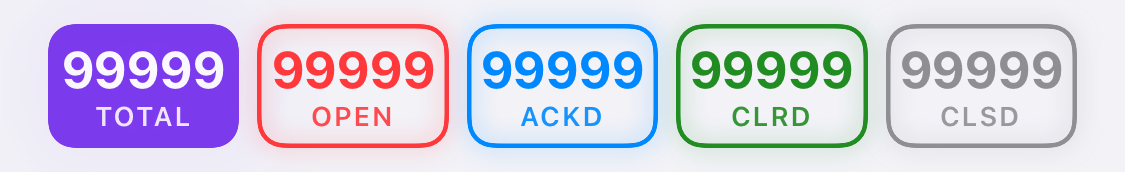
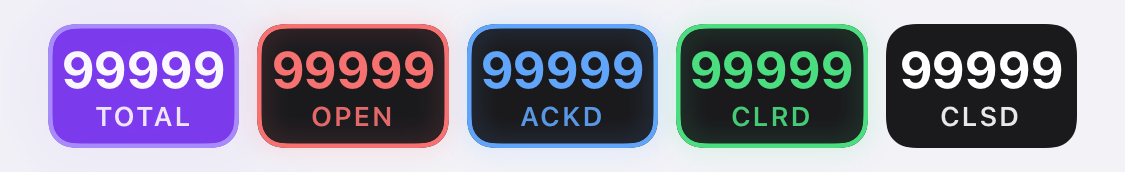
PWA 0.19.6: two colours per pill — a base to fill with, a tint to frame with
Round two of Thomas's mockup.

  TOTAL  base #7C3AED  tint #A78BFA
  OPEN   base #DC2626  tint #F87171
  ACKD   base #2563EB  tint #60A5FA
  CLRD   base #16A34A  tint #4ADE80
  CLSD   base #F2F2F7  tint #FFFFFF

Round one gave each pill ONE colour used for everything, which left an
unselected pill outlined in the same value its selected neighbour was filled
with — the two states separated only by fill, which is exactly what failed on
TOTAL when #1B0F33 went on a near-black page. A brighter frame is the
difference that survives whatever the fill does.

The unselected ground is #1a1a1d, not transparent. Round one let the page
through, so the row read as four outlines floating on nothing; a plate gives
every pill the same footprint whether selected or not, which is what stops the
row jumping as the selection moves.

CLSD is the exception twice. Selected, its text is #111114 rather than white —
its fill is nearly white and white on white is the whole label gone. Unselected
it has NO frame and NO glow: white text on the bare plate. It is the one tab you
opt into, and a #FFFFFF frame would make it the brightest thing in a row nobody
is looking at. The border WIDTH stays and only the colour goes transparent, or
the frameless pill would be 3px narrower than the four beside it and the row
would not line up.

Radii unchanged: 4px at 55% unselected, 14px at 85% selected.

ONE CONTRADICTION IN THE BRIEF, resolved and stated rather than quietly picked.
[…]

diff --git a/pwa/src/features/incidents/__tests__/IncidentListScreen.test.tsx b/pwa/src/features/incidents/__tests__/IncidentListScreen.test.tsx
@@ -127,58 +127,80 @@ describe('IncidentListScreen', () => {
     expect(rowIds().join(' ')).toContain('#27516');
   });
 
-  it('gives the selected pill its own state colour', async () => {
-    // TOTAL is #7C3AED, the same in both states, exactly like the other four.
-    // It replaced #1B0F33 — the app icon's measured dominant colour, and the
-    // wrong value: the icon's dominant colour is its dark BACKGROUND, so the
-    // selected pill was a near-black block on a near-black page and did not
-    // read as selected at all. iOS asserts the identical string.
+  /** The ten hex values, as the mockup states them. iOS holds the identical ten
+   * in `IncidentPill.palette` and asserts them there, so neither platform can
+   * drift on any of them in silence. */
+  const PALETTE = {
+    TOTAL: { base: 'rgb(124, 58, 237)', tint: 'rgb(167, 139, 250)', hex: ['#7C3AED', '#A78BFA'] },
+    OPEN: { base: 'rgb(220, 38, 38)', tint: 'rgb(248, 113, 113)', hex: ['#DC2626', '#F87171'] },
+    ACKD: { base: 'rgb(37, 99, 235)', tint: 'rgb(96, 165, 250)', hex: ['#2563EB', '#60A5FA'] },
+    CLRD: { base: 'rgb(22, 163, 74)', tint: 'rgb(74, 222, 128)', hex: ['#16A34A', '#4ADE80'] },
+    CLSD: { base: 'rgb(242, 242, 247)', tint: 'rgb(255, 255, 255)', hex: ['#F2F2F7', '#FFFFFF'] },
+  } as const;
+  const PILL_NAMES = ['TOTAL', 'OPEN', 'ACKD', 'CLRD', 'CLSD'] as const;
+
+  it('fills the selected pill with its BASE and frames it in its TINT', async () => {
     renderScreen();
-    expect(pill('TOTAL').style.backgroundColor).toBe('rgb(124, 58, 237)');  // #7C3AED
-    expect(pill('TOTAL').style.color).toBe('rgb(255, 255, 255)');           // 5.6:1 on it
-    await userEvent.click(pill('OPEN'));
-    expect(pill('OPEN').style.backgroundColor).toBe('rgb(220, 38, 38)');
-    await userEvent.click(pill('ACKD'));
-    expect(pill('ACKD').style.backgroundColor).toBe('rgb(37, 99, 235)');
-    await userEvent.click(pill('CLRD'));
-    expect(pill('CLRD').style.backgroundColor).toBe('rgb(5, 150, 105)');
-    await userEvent.click(pill('CLSD'));
-    expect(pill('CLSD').style.backgroundColor).toBe('rgb(100, 116, 139)');
-    await userEvent.click(pill('TOTAL'));
-    expect(pill('TOTAL').style.backgroundColor).toBe('rgb(124, 58, 237)');
+    for (const name of PILL_NAMES) {
+      await userEvent.click(pill(name));
+      const el = pill(name);
+      const { base, tint } = PALETTE[name];
+      expect(el.style.backgroundColor).toBe(base);
+      expect(el.style.borderColor).toBe(tint);
+      expect(el.style.borderWidth).toBe('1.5px');
+      // White text on four; CLSD's fill is nearly white, so white on white
+      // would be the whole label gone.
+      expect(el.style.color).toBe(name === 'CLSD' ? 'rgb(17, 17, 20)' : 'rgb(255, 255, 255)');
+      // Selected glow: 14px at 85%, in the BASE.
+      expect(el.style.boxShadow).toBe(`0 0 14px ${PALETTE[name].hex[0]}D9`);
+    }
   });
 
-  it('draws the two glow radii, and TOTAL is #7C3AED in BOTH states', async () => {
-    // **The hex and the two radii — the whole of the mockup that can be
-    // asserted rather than looked at.** No pill has a second colour any more:
-    // fill, border, text and glow are one value each, and #1B0F33 is gone.
+  it('frames, texts and glows an UNSELECTED pill in its TINT, on the #1a1a1d plate', async () => {
+    renderScreen();                       // TOTAL is selected; the other four are not
+    await userEvent.click(pill('TOTAL'));
+    for (const name of PILL_NAMES.filter((p) => p !== 'TOTAL' && p !== 'CLSD')) {
+      const el = pill(name);
+      const { tint, hex } = PALETTE[name];
+      // Not transparent. Round one let the page through and the row read as
+      // outlines floating on nothing.
+      expect(el.style.backgroundColor).toBe('rgb(26, 26, 29)');   // #1a1a1d
+      expect(el.style.borderColor).toBe(tint);
+      expect(el.style.color).toBe(tint);
+      expect(el.style.boxShadow).toBe(`0 0 4px ${hex[1]}8C`);     // 4px at 55%, in the TINT
+    }
+  });
+
+  it('gives an UNSELECTED CLSD no frame and no glow — white text on the plate alone', async () => {
+    // The one tab you opt into, and the only pill not competing for attention
+    // when you have not. A frame in #FFFFFF would be the brightest thing in a
+    // row nobody is looking at.
     renderScreen();
+    const el = pill('CLSD');
+    expect(el).toHaveAttribute('data-selected', 'false');
+    expect(el.style.boxShadow).toBe('none');
+    expect(el.style.borderColor).toBe('transparent');
+    // The border WIDTH stays, or the frameless pill would be 3px narrower than
+    // the four beside it and the row would not line up.
+    expect(el.style.borderWidth).toBe('1.5px');
+    expect(el.style.color).toBe('rgb(255, 255, 255)');
+    expect(el.style.backgroundColor).toBe('rgb(26, 26, 29)');
 
-    const total = pill('TOTAL');                       // selected: 14px at 85%
-    expect(total.style.backgroundColor).toBe('rgb(124, 58, 237)');  // #7C3AED FILLS it
-    expect(total.style.boxShadow).toBe('0 0 14px #7C3AEDD9');       // and glows it
-    expect(total.style.borderColor).toBe('rgb(124, 58, 237)');
-    expect(total.style.borderWidth).toBe('1.5px');
+    // And it does get both back when it IS selected.
+    await userEvent.click(pill('CLSD'));
+    expect(pill('CLSD').style.boxShadow).toBe('0 0 14px #F2F2F7D9');
+    expect(pill('CLSD').style.borderColor).toBe('rgb(255, 255, 255)');
+  });
 
-    const open = pill('OPEN');                         // unselected: 4px at 55%
-    expect(open.style.backgroundColor).toBe('transparent');
-    expect(open.style.boxShadow).toBe('0 0 4px #DC26268C');
-    expect(open.style.color).toBe('rgb(220, 38, 38)');  // text in the pill's own colour
-    expect(open.style.borderColor).toBe('rgb(220, 38, 38)');
-
-    // And the radii swap with the selection, rather than being stuck on one pill.
-    // An UNSELECTED TOTAL is the same violet, hollow: transparent fill, violet
-    // border, violet text, 4px violet glow — the rule the other four follow.
+  it('draws the two glow radii, and never a filter', async () => {
+    renderScreen();
+    expect(pill('TOTAL').style.boxShadow).toBe('0 0 14px #7C3AEDD9');   // selected
+    expect(pill('OPEN').style.boxShadow).toBe('0 0 4px #F871718C');     // unselected
     await userEvent.click(pill('OPEN'));
     expect(pill('OPEN').style.boxShadow).toBe('0 0 14px #DC2626D9');
-    expect(pill('TOTAL').style.boxShadow).toBe('0 0 4px #7C3AED8C');
-    expect(pill('TOTAL').style.backgroundColor).toBe('transparent');
-    expect(pill('TOTAL').style.color).toBe('rgb(124, 58, 237)');
-
+    expect(pill('TOTAL').style.boxShadow).toBe('0 0 4px #A78BFA8C');
     // box-shadow, never filter: drop-shadow — a filter would blur the digits.
-    for (const p of ['TOTAL', 'OPEN', 'ACKD', 'CLRD', 'CLSD']) {
-      expect(pill(p).style.filter).toBe('');
-    }
+    for (const name of PILL_NAMES) expect(pill(name).style.filter).toBe('');
   });
 
   it('turns the colour transition off for a reader who asked for less movement', () => {

diff --git a/pwa/src/features/incidents/IncidentPills.tsx b/pwa/src/features/incidents/IncidentPills.tsx
@@ -1,27 +1,43 @@
 import { PILLS, type Pill, type PillCounts } from './pills';
 
-/** One colour per pill. It is the fill when selected, and the border, the text
- * and the glow when it is not — the same rule for all five, with no exception.
+/** **Two colours per pill**: a `base` for the selected fill, and a brighter
+ * `tint` for the frame, the unselected text and the unselected glow.
  *
- * **TOTAL used to be the exception and it was the wrong call.** 0.19.2/0.19.3
- * filled it with `#1B0F33`, the app icon's dominant colour (76.3% of
- * `AppIcon-1024.png`, quantised to eight colours). The measurement was correct
- * and the reasoning was not: the icon's dominant colour is its dark
- * *background*, and a near-black fill on slate-950 is not a selected state —
- * reported from the device on 2026-09-22 as "not readable as selected".
- * `#7C3AED` was already its border and glow; the fill is now the same value.
+ * Round two of Thomas's mockup, 2026-09-22. Round one gave each pill a single
+ * colour used for everything, which left an unselected pill outlined in the
+ * same value its selected neighbour was filled with — the two states separated
+ * only by fill, which is exactly what failed on TOTAL when `#1B0F33` went on a
+ * near-black page. A brighter frame is the difference that survives whatever
+ * the fill does.
  *
- * The other four are the exact hexes of the Tailwind classes they replaced —
- * red-600, blue-600, emerald-600, slate-500. iOS holds the identical string for
- * TOTAL (`IncidentPill.totalHex`) and both suites assert it.
+ * iOS holds the same ten strings in `IncidentPill.palette`, and both suites
+ * assert all ten, so the platforms cannot drift on any of them.
  */
-const COLOUR: Record<Pill, string> = {
-  TOTAL: '#7C3AED',
-  OPEN: '#DC2626',
-  ACKD: '#2563EB',
-  CLRD: '#059669',
-  CLSD: '#64748B',
+const PALETTE: Record<Pill, { base: string; tint: string }> = {
+  TOTAL: { base: '#7C3AED', tint: '#A78BFA' },
+  OPEN: { base: '#DC2626', tint: '#F87171' },
+  ACKD: { base: '#2563EB', tint: '#60A5FA' },
+  CLRD: { base: '#16A34A', tint: '#4ADE80' },
+  CLSD: { base: '#F2F2F7', tint: '#FFFFFF' },
 };
+
+/** The ground an UNSELECTED pill sits on. **Not transparent** — round one let
+ * the page show through, so the row read as four outlines floating on nothing.
+ * A near-black plate gives every pill the same footprint whether it is selected
+ * or not, which is what stops the row jumping as the selection moves. */
+const UNSELECTED_BG = '#1a1a1d';
+
+/** CLSD's selected text. The one pill whose fill is nearly white, so
+ * white-on-white would be the whole label gone. Near-black rather than pure
+ * black, to match the ground the row sits on. */
+const CLSD_ON = '#111114';
+
+/** CLSD is the only pill with no frame and no glow when unselected: white text
+ * on the bare plate. It is the one tab you opt into, and a frame in `#FFFFFF`
+ * would make it the brightest thing in a row you are not looking at. */
+function isFramedWhenUnselected(pill: Pill): boolean {
+  return pill !== 'CLSD';
+}
 
 /** The glow, exactly as the mockup specifies it: 4 px at 55% unselected, 14 px
  * at 85% selected. Radius and opacity travel together because they are one
@@ -37,6 +53,16 @@ const GLOW = {
   unselected: { radius: 4, opacity: 0.55 },
   selected: { radius: 14, opacity: 0.85 },
 } as const;
+
+/** The glow's colour: **`base` when selected, `tint` when not.**
+ *
+ * The mockup's summary line says "a brighter tint for the frame, the unselected
+ * text and both glows", and its per-state lines say "glow 14px in **base** at
+ * 85%" selected and "glow 4px in tint at 55%" unselected. Those disagree about
+ * exactly one value. The per-state lines are followed, being the more specific
+ * of the two — a selected pill's halo is its own fill bleeding outwards, which
+ * is what a filled chip does everywhere else in this app. iOS resolves it the
+ * same way, in `IncidentPill.glowColor(selected:)`. */
 
 /** `#RRGGBB` + an alpha byte. Eight-digit hex is the shortest way to put an
  * opacity on a colour inside a `box-shadow` without a second colour space. */
@@ -78,8 +104,10 @@ export function IncidentPills({ selected, counts, onSelect }: Props) {
     <div role="tablist" aria-label="Filter incidents" className="flex gap-1.5">
       {PILLS.map((pill) => {
         const isSelected = pill === selected;
-        const colour = COLOUR[pill];
+        const { base, tint } = PALETTE[pill];
         const { radius, opacity } = isSelected ? GLOW.selected : GLOW.unselected;
+        const framed = isSelected || isFramedWhenUnselected(pill);
+        const glow = isSelected ? base : tint;
         return (
           <button
             key={pill}
@@ -92,12 +120,17 @@ export function IncidentPills({ selected, counts, onSelect }: Props) {
             onClick={() => onSelect(pill)}
             className="flex flex-1 min-w-0 flex-col items-center gap-0.5 rounded-lg px-1 py-1 transition-colors motion-reduce:transition-none"
             style={{
-              backgroundColor: isSelected ? colour : 'transparent',
+              backgroundColor: isSelected ? base : UNSELECTED_BG,
               borderWidth: '1.5px',
               borderStyle: 'solid',
-              borderColor: colour,
-              color: isSelected ? '#FFFFFF' : colour,
-              boxShadow: `0 0 ${radius}px ${withAlpha(colour, opacity)}`,
+              // `transparent`, not `none`: the border box has to keep its width
+              // or the frameless CLSD pill would be 3px narrower than the four
+              // beside it and the row would not line up.
+              borderColor: framed ? tint : 'transparent',
+              color: isSelected
+                ? (pill === 'CLSD' ? CLSD_ON : '#FFFFFF')
+                : tint,
+              boxShadow: framed ? `0 0 ${radius}px ${withAlpha(glow, opacity)}` : 'none',
             }}
           >
             <span className="tabular-nums text-base font-bold leading-none">{counts[pill]}</span>

diff --git a/shared/feature-spec.md b/shared/feature-spec.md
@@ -218,14 +218,14 @@ choosing to see only acknowledged incidents is a different thing from the tile.
 
 iOS 2.13.6 (52), PWA 0.18.1.
 
-#### Incident list filter — TOTAL / OPEN / ACKD / CLRD / CLSD (**PWA 0.19.5 live; iOS 2.14.0 (54) built, not submitted**)
+#### Incident list filter — TOTAL / OPEN / ACKD / CLRD / CLSD (**PWA 0.19.6 live; iOS 2.14.0 (54) built, not submitted**)
 
 **Superseded the four-tab sketch recorded here on 2026-09-20.** Design and every ruling:
 `docs/superpowers/specs/2026-09-21-incident-list-filter-design.md` — approved, nothing open.
 
 | pill | contents | colour |
 |---|---|---|
-| **TOTAL** | OPEN + ACKD + CLRD — everything **except** closed | violet `#7C3AED` |
+| **TOTAL** | OPEN + ACKD + CLRD — everything **except** closed | violet, base `#7C3AED` / tint `#A78BFA` |
 | **OPEN** | state `OPEN` and **not** acknowledged | red |
 | **ACKD** | state `OPEN` and acknowledged | blue |
 | **CLRD** | state `ALARMS CLEARED` | green |
@@ -263,9 +263,24 @@ digits. Rendered proof at 375 pt with every count at 99999, both platforms:
 `docs/evidence/2026-09-22-ios-pills-375pt.png` and `docs/evidence/2026-09-22-pwa-pills-375pt.png`.
 Counts use tabular figures on both so the five columns do not jitter as the numbers change.
 
-**TOTAL is `#7C3AED`, one colour in both states, exactly like the other four.** White text when
-filled (5.6:1). It replaces the gold `#c9a227` of PWA 0.18.x–0.19.1 and, briefly, `#1B0F33`.
-**Both suites assert the literal string**, so one platform cannot drift off the other quietly.
+**Every pill has TWO colours** (round two of the mockup, 2026-09-22): a `base` for the selected
+fill and a brighter `tint` for the frame, the unselected text and the unselected glow.
+
+| pill | base | tint |
+|---|---|---|
+| TOTAL | `#7C3AED` | `#A78BFA` |
+| OPEN | `#DC2626` | `#F87171` |
+| ACKD | `#2563EB` | `#60A5FA` |
+| CLRD | `#16A34A` | `#4ADE80` |
+| CLSD | `#F2F2F7` | `#FFFFFF` |
+
+Unselected ground `#1a1a1d` on all five — **not transparent**, or the row reads as outlines
+floating on nothing and the pills change footprint as the selection moves. **CLSD is the
+exception twice**: its selected text is `#111114` (its fill is nearly white), and unselected it
+has no frame and no glow at all — white text on the bare plate, because a `#FFFFFF` frame would
+make the one tab you opt into the brightest thing in the row. **Both suites assert all ten hex
+values and the CLSD rule**, so one platform cannot drift off the other quietly. The gold
+`#c9a227` of PWA 0.18.x–0.19.1 and the briefly-used `#1B0F33` are both gone.
 
 > **`#1B0F33` was a measurement, and it was the wrong measurement.** PWA 0.19.2–0.19.3 and the
 > intermediate build 54 filled TOTAL with the app icon's dominant colour — quantise

diff --git a/pwa/CHANGELOG.md b/pwa/CHANGELOG.md
@@ -14,6 +14,50 @@ The format follows [Keep a Changelog](https://keepachangelog.com/en/1.1.0/) and 
 
 ---
 
+## [0.19.6] - 2026-09-22
+
+### Changed
+
+- **Every pill now has two colours**: a `base` for the selected fill, and a brighter `tint` for
+  the frame, the unselected text and the unselected glow. Round two of Thomas's mockup.
+
+  | pill | base | tint |
+  |---|---|---|
+  | TOTAL | `#7C3AED` | `#A78BFA` |
+  | OPEN | `#DC2626` | `#F87171` |
+  | ACKD | `#2563EB` | `#60A5FA` |
+  | CLRD | `#16A34A` | `#4ADE80` |
+  | CLSD | `#F2F2F7` | `#FFFFFF` |
+
+  Round one gave each pill one colour used for everything, which left an unselected pill
+  outlined in the same value its selected neighbour was filled with — the two states separated
+  only by fill, which is exactly what failed on TOTAL when `#1B0F33` went on a near-black page.
+  A brighter frame is the difference that survives whatever the fill does. **iOS holds the same
+  ten strings and both suites assert all ten.**
+
+- **The unselected ground is `#1a1a1d`, not transparent.** Round one let the page through, so
+  the row read as four outlines floating on nothing. A plate gives every pill the same footprint
+  whether it is selected or not, which is what stops the row jumping as the selection moves.
+
+- **CLSD is the exception, twice.** Selected, its text is `#111114` rather than white — its fill
+  is nearly white, and white on white is the whole label gone. Unselected it has **no frame and
+  no glow**: white text on the bare plate. It is the one tab you opt into, and a frame in
+  `#FFFFFF` would make it the brightest thing in a row nobody is looking at. The border *width*
+  stays, or the frameless pill would be 3 px narrower than the four beside it.
+
+  Radii unchanged: 4 px at 55% unselected, 14 px at 85% selected.
+
+  Re-rendered at 375 px with every count at 99999: `docs/evidence/2026-09-22-pwa-pills-375pt.png`.
+
+> **One contradiction in the brief, resolved and stated.** Its summary line says the tint carries
+> "the frame, the unselected text and both glows"; its per-state lines say "glow 14 px in **base**
+> at 85%" selected and "glow 4 px in tint at 55%" unselected. Those disagree about exactly one
+> value. The per-state lines are followed, being the more specific — a selected pill's halo is its
+> own fill bleeding outwards. Both platforms resolve it the same way; say the word and it is one
+> constant on each side.
+
+---
+
 ## [0.19.5] - 2026-09-22
 
 ### Fixed
